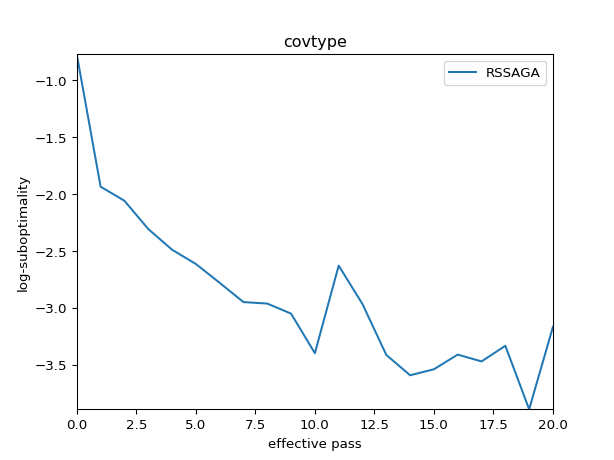
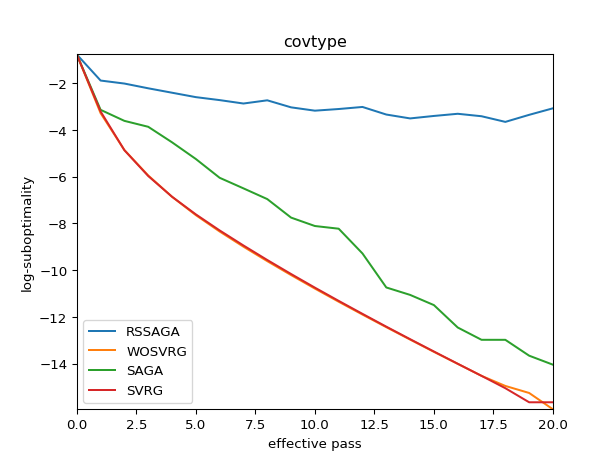
we are going to deal with the next dataset

diff --git a/log.py b/log.py
@@ -119,7 +119,7 @@ class Model:
             n_tilde = self.Gradient(W, X_train, y_train)
 
             for t in range(iterNum):
-                index = np.random.choice(X_train.shape[0], 1)
+                index = np.random.choice(m, 1)
                 deltaW = self.Gradient(W, X_train[index],y_train[index]) - self.Gradient(w_tilde, X_train[index], y_train[index])+ self.C * W + n_tilde
                 W = W - eta * deltaW
 
@@ -155,7 +155,7 @@ class Model:
 
         return w_tilde
 
-    def SAGA(self, X_train, y_train, gamma=1.5e-2):
+    def SAGA(self, X_train, y_train, gamma=1e-2):
         W = self.W
         m, n = X_train.shape # m: sample size, n: feature size
 
@@ -185,7 +185,7 @@ class Model:
 
         return W
 
-    def RSSAGA(self, X_train, y_train, gamma=9.9e-4):
+    def RSSAGA(self, X_train, y_train, gamma=9e-4):
         W = self.W
         m, n = X_train.shape # m: sample size, n: feature size
 
@@ -210,7 +210,6 @@ class Model:
             W = W - gamma * (new_grad - gradients[index_scalar] + sum_gradients/m)
             sum_gradients = sum_gradients - gradients[index_scalar] + new_grad
             gradients[index_scalar] = new_grad
-
 
         return W
 
